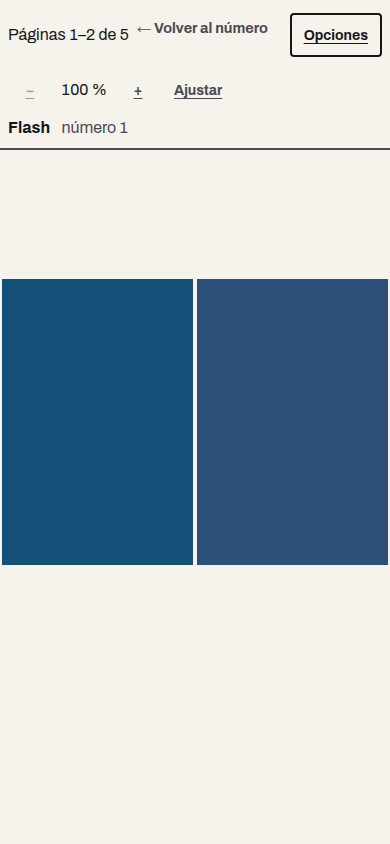
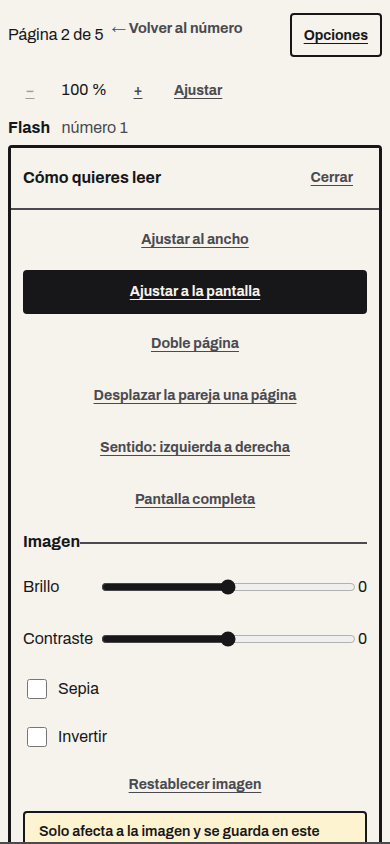
docs(lector): completar evidencia Chrome de UATP-03

diff --git a/docs/design/uatp03/resultado-chrome.md b/docs/design/uatp03/resultado-chrome.md
@@ -1,9 +1,9 @@
 # T12 · Chrome de UATP-03
 
 **Fecha:** 2026-11-21  
-**SHA de producto:** `513ef3bd` (PR #1207)  
+**SHA de producto:** `53f8417c` (PR #1207); esta evidencia se versiona en un commit documental posterior.  
 **Entorno:** app local aislada, PostgreSQL 15 temporal y CBZ sintético de 5 páginas; sin datos de producción.  
-**Navegador:** Google Chrome con Playwright, viewports reales 320×568, 390×844 y 568×320; táctil emulado y ratón.  
+**Navegador:** Google Chrome **158.0.8127.36**, Linux, con Playwright; viewports reales 320×568, 390×844 y 568×320; táctil emulado y ratón.  
 **Firefox/Safari/iOS/Android físico/lector de pantalla:** **NOT RUN** en este entorno.
 
 ## Resultados
@@ -18,16 +18,20 @@
 | 390: avance por toque | PASS | página 2 |
 | 390: reabrir conserva página guardada | PASS | `data-pagina=2` |
 | 390: Opciones/modo conservan página | PASS | página 2 |
-| Ratón: acercarse al asa no la oculta; clic revela | PASS | asa sigue visible y el clic abre la barra |
+| 390: pasar página con la barra oculta no la revela | PASS | `data-chrome=oculto`, página 2 |
+| Ratón: trayectoria `x=500, y=300→90→22` mantiene el asa visible | PASS | asa `display:flex` en ambos puntos |
+| Ratón: clic en asa revela barra | PASS | barra visible, foco en «Volver al número» |
 | 568×320: fin abierto en la última | PASS | `#fin` visible |
 | 568×320: Tab desde `#fin-titulo` | PASS | foco en control del fin, barra fuera de pantalla |
 | RTL: render y toque izquierdo avanza | PASS | `data-sentido=rtl`, página 1→2 |
+| RTL: doble página en `row-reverse` | PASS | `flexDirection=row-reverse` |
 
 Capturas:
 
 - [`t12-320-asa.png`](t12-320-asa.png)
 - [`t12-320-barra.png`](t12-320-barra.png)
 - [`t12-390-opciones.png`](t12-390-opciones.png)
+- [`t12-390-rtl-doble.png`](t12-390-rtl-doble.png)
 - [`t12-568x320-fin.png`](t12-568x320-fin.png)
 
 ## Límites
